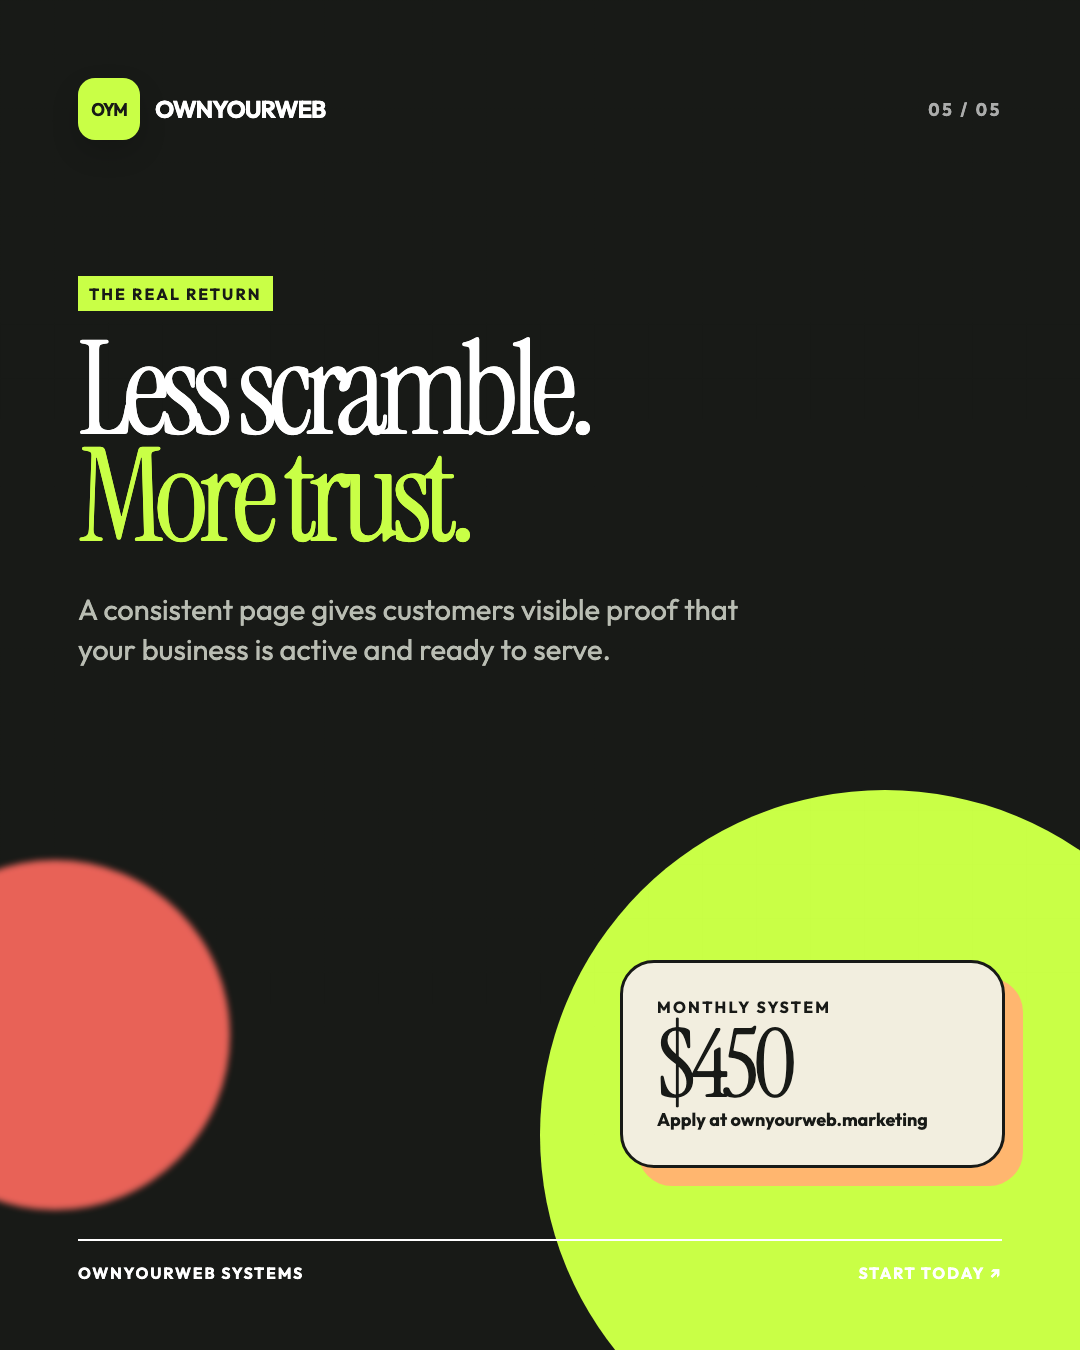
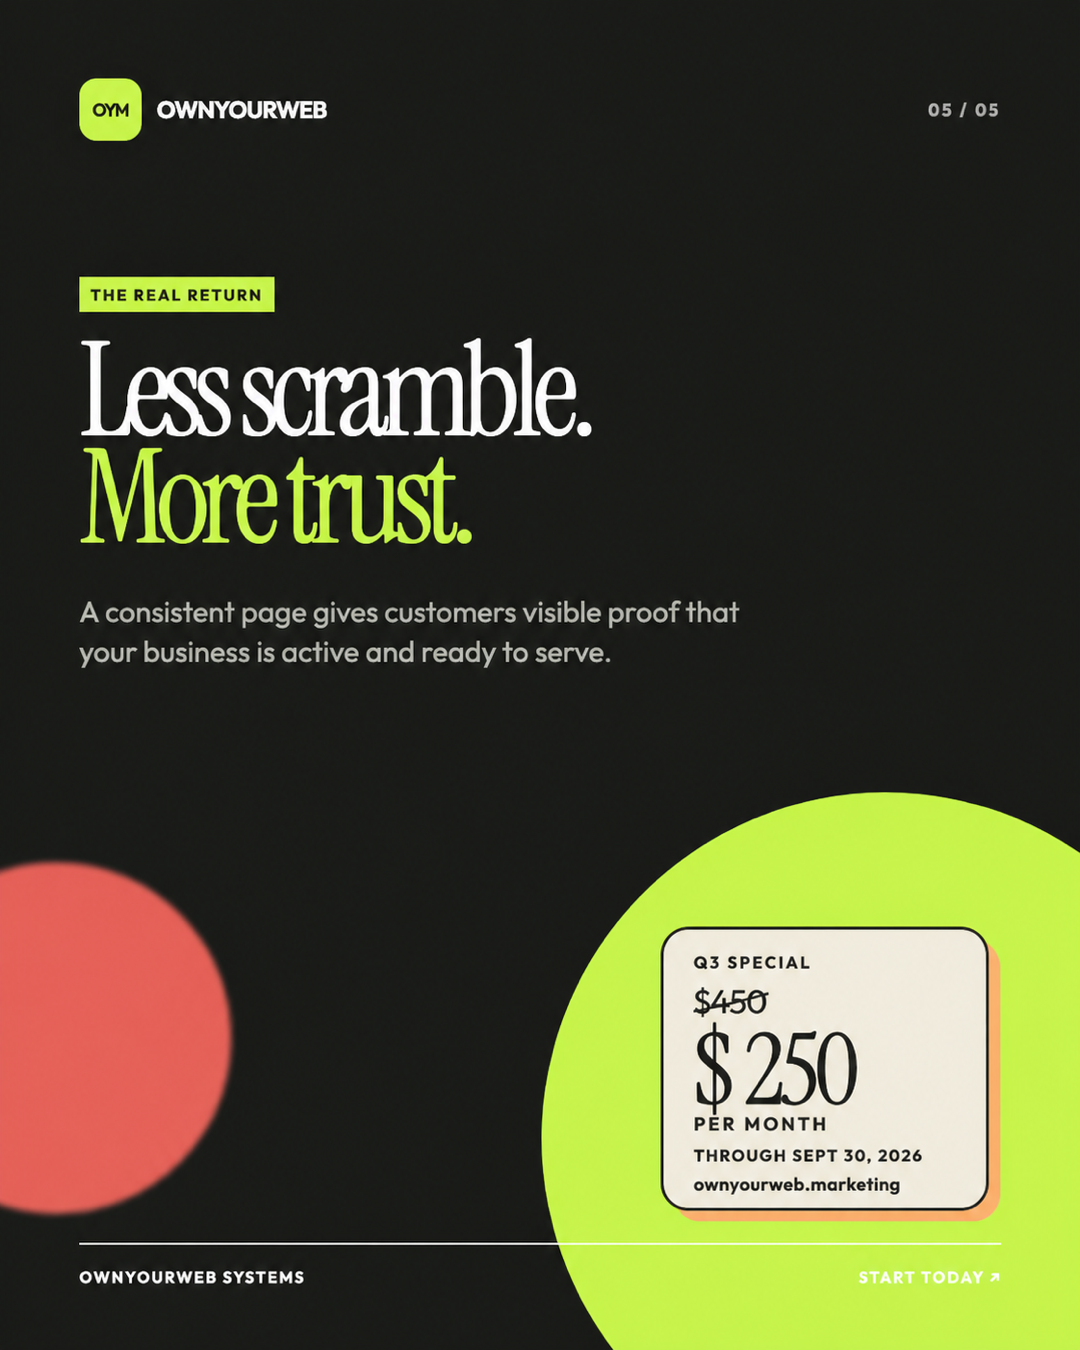
Update WIIFM carousel with Q3 pricing

diff --git a/marketing-rollout/instagram-wiifm/captions.md b/marketing-rollout/instagram-wiifm/captions.md
@@ -19,7 +19,9 @@ You share the important business updates and approve the work. We handle the rec
 
 The result is less weekly scrambling, a page that looks active and credible, and a clearer understanding of what to do next.
 
-$450 per month. Apply at ownyourweb.marketing.
+Q3 special: $250 per month through September 30, 2026. Standard rate $450. Save $200 per month during Q3.
+
+Apply at ownyourweb.marketing.
 
 #OwnYourWeb #SocialMediaManagement #SmallBusinessMarketing #ContentStrategy #BusinessSystems #LocalBusinessMarketing #AIPoweredMarketing
 
@@ -59,6 +61,6 @@ Efficient does not have to mean careless.
 
 Your business deserves a social page that looks as active as the business behind it.
 
-Get 12 branded posts, captions, approvals, revisions, and a monthly report for $450 per month.
+Get 12 branded posts, captions, approvals, revisions, and a monthly report for the Q3 special rate of $250 per month through September 30, 2026. Standard rate $450.
 
 Apply at ownyourweb.marketing.
